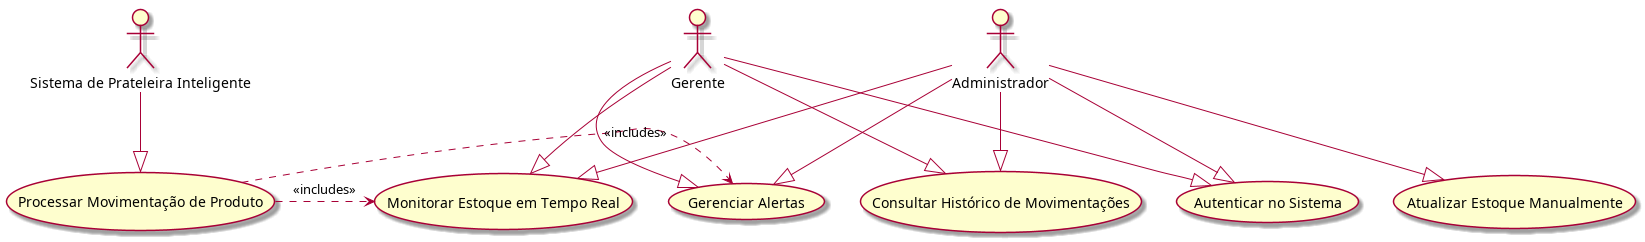
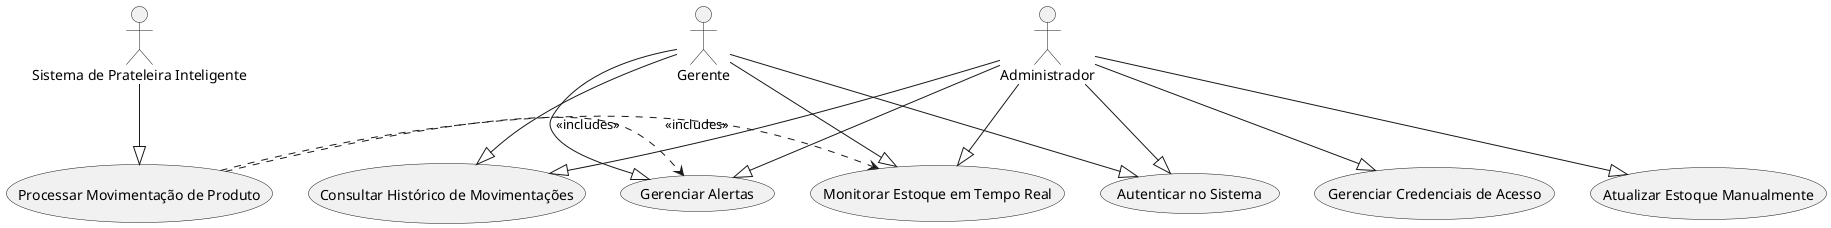
docs: adicionar documentação casos de uso

diff --git a/mkdocs/docs/requisitos.md b/mkdocs/docs/requisitos.md
@@ -1,8 +1,8 @@
-### 1. Introdução
+## 1. Introdução
 
 O projeto propõe o desenvolvimento de um Sistema de Prateleira Inteligente focado em mercados autônomos. Seu objetivo principal é monitorar e rastrear o comportamento do estoque em tempo real. A finalidade é otimizar a reposição de produtos e evitar perdas por vencimento ou falta de itens nas prateleiras. Este sistema se insere no contexto da automatização de processos comerciais, aproveitando tecnologias como RFID, IoT e Big Data.
 
-### 2. Objetivos do Sistema
+### 1.1 Objetivos do Sistema
 
 O sistema tem como objetivos ser capaz de:
 * Identificar produtos que são adicionados ou removidos de uma prateleira.
@@ -15,7 +15,7 @@ O sistema tem como objetivos ser capaz de:
 * Aumentar a rastreabilidade dos produtos.
 * Facilitar a gestão do estoque por meio de um dashboard web.
 
-### 3. Tecnologias e Componentes Utilizados
+### 1.2 Tecnologias e Componentes Utilizados
 
 O sistema é construído sobre as seguintes tecnologias e componentes:
 
@@ -33,7 +33,7 @@ O sistema é construído sobre as seguintes tecnologias e componentes:
 
 * **Sistema de Notificação (Push, Email, SMS ou App):** Módulo responsável por enviar alertas automáticos aos usuários ou operadores do sistema.
 
-### 4. Requisitos Funcionais (RF)
+## 2. Requisitos Funcionais (RF)
 
 | Código | Descrição                                                                                                 |
 | :----- | :-------------------------------------------------------------------------------------------------------- |
@@ -44,13 +44,10 @@ O sistema é construído sobre as seguintes tecnologias e componentes:
 | RF05   | Exibir no dashboard a quantidade atual de produtos por categoria.                                         |
 | RF06   | Emitir alertas visuais no dashboard quando um produto estiver em falta.                                   |
 | RF07   | Emitir alertas quando um produto estiver próximo da data de vencimento.                                   |
-| RF08   | Permitir que o usuário gere relatórios em formato PDF sobre: estoque atual, produtos em falta e validade. |
-| RF09   | Permitir a visualização dos dados em gráficos e tabelas.                                                  |
-| RF10   | Enviar dados recebidos do ESP32 para o frontend por WebSocket.                                            |
-| RF11   | Permitir que administradores realizem manutenções no sistema e ajustes, caso necessário.                  |
-| RF12   | Possibilitar a pesquisa e o filtro de produtos dentro do dashboard.                                       |
+| RF08   | Possibilitar a pesquisa e o filtro de produtos dentro do dashboard. |
+| RF09   | Permitir que administradores realizem manutenções no sistema e ajustes, caso necessário.                                                  |
 
-### 5. Requisitos Não Funcionais (RNF)
+## 3. Requisitos Não Funcionais (RNF)
 
 | Código | Descrição |
 | :--- | :--- |
@@ -63,19 +60,19 @@ O sistema é construído sobre as seguintes tecnologias e componentes:
 | RNF07 | O sistema deverá estar hospedado na nuvem, com backups periódicos automáticos. |
 | RNF08 | A interface deverá ser intuitiva, visando facilidade de uso para gerentes e repositores. |
 
-### 6. Restrições
+## 4. Restrições
 
 * O hardware utilizado será o ESP32 WROOM32 integrado a leitores RFID.
 * Para o MVP, a solução será web, sem desenvolvimento específico para aplicativos nativos.
 * A ausência de um broker MQTT levou à escolha dos protocolos HTTP ou WebSocket para comunicação IoT.
 
-### 7. Critérios de Aceitação
+## 5. Critérios de Aceitação
 
 * O dashboard deverá refletir as mudanças de estoque em tempo real.
 * As notificações de produtos vencendo ou em falta devem ser exibidas de forma clara.
 * Usuários não autorizados não devem conseguir acessar dados ou funcionalidades restritas.
 * A comunicação IoT deverá ser estável e segura.
 
-### 8. Considerações Finais
+---
 
-Este documento define claramente os requisitos necessários para o desenvolvimento do sistema. Ele serve como base para a fase de modelagem (banco de dados, diagramas de processos) e posteriormente para o desenvolvimento. Alterações e adições poderão ser feitas conforme a evolução do projeto.
+Essa documentação define claramente os requisitos necessários para o desenvolvimento do sistema. Ele serve como base para a fase de modelagem (banco de dados, diagramas de processos) e posteriormente para o desenvolvimento. Alterações e adições poderão ser feitas conforme a evolução do projeto.

diff --git a/mkdocs/docs/descricao_casos_de_uso.md b/mkdocs/docs/descricao_casos_de_uso.md
@@ -1,0 +1,20 @@
+## Diagrama de Caso de Uso Simplificado
+
+### 2.1. Atores
+1. **Gerente** — Consulta e monitora estoque e alertas.
+2. **Administrador** — Possui todas as permissões do gerente, além de atualizar estoque e gerenciar credenciais.
+3. **Sistema de Prateleira Inteligente (SPI)** — Detecta e envia movimentações de produtos.
+
+### 2.2. Casos de Uso
+1. Monitorar Estoque em Tempo Real.
+2. Gerenciar Alertas.
+3. Consultar Histórico de Movimentações.
+4. Atualizar Estoque Manualmente.
+5. Autenticar no Sistema.
+6. Processar Movimentação de Produto.
+7. Gerenciar Credenciais de Acesso.
+
+### 2.3. Relações
+1. **Gerente** autentica e acessa monitoramento, alertas e histórico.
+2. **Administrador** autentica e acessa todas as funcionalidades do gerente, além de atualizar estoque e gerenciar credenciais.
+3. O **SPI** processa movimentações de produto e inclui funcionalidades de monitoramento e alertas.
